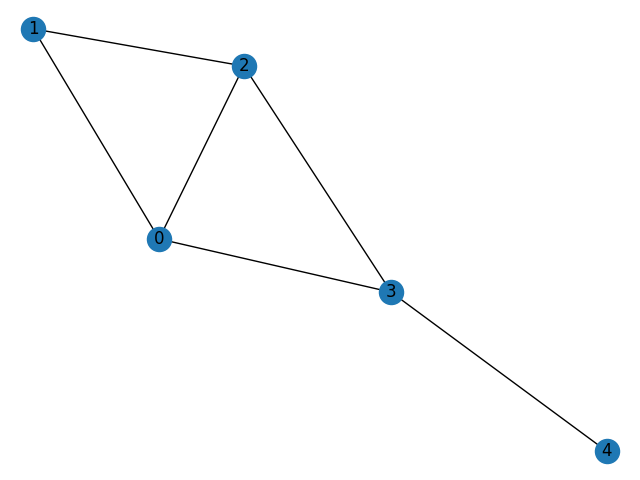
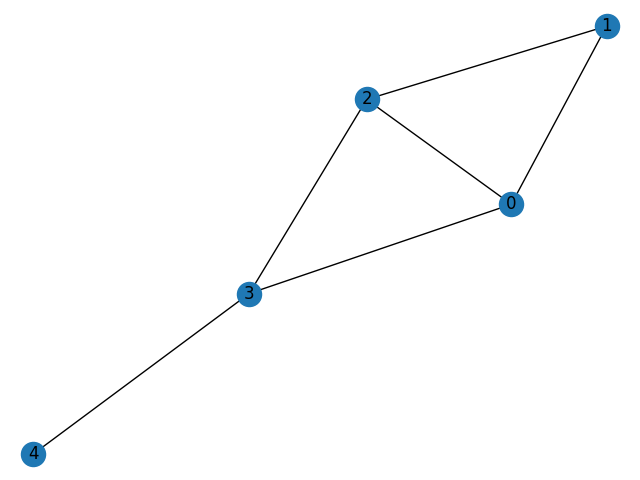
Complex triangle perfected and cleaned

diff --git a/Inner Graph Generator/componentcheck.py b/Inner Graph Generator/componentcheck.py
@@ -12,35 +12,9 @@ def cip_rule_filter(graph_list):
                 Less than 4 CIPs
     """
     filtered_graphs = []
-    a = 0
     for graph in graph_list:
-        print(f'reach {a}')
-        print(graph.edges())
-        a += 1
-        cip_check = True
-        outer_comps, inner_comps, single_component = component_break(graph)
-        # list, list, element
-        # print(outer_comps, inner_comps, single_component)
-        if not single_component:
-            # CIP Rule for Outer Components
-            for comp in outer_comps:
-                if num_cips(comp) > 2 and not complex_triangle_check(comp):
-                    cip_check = False
-                    print('FALSE')
-            # CIP Rule for Inner Components
-            for comp in inner_comps:
-                if num_cips(comp) > 0 and not complex_triangle_check(comp):
-                    cip_check = False
-                    print('FALSE')
-        else:
-            # CIP Rule for single_component Components
-            if num_cips(single_component) > 4 and \
-                    not complex_triangle_check(single_component):
-                cip_check = False
-                print('FALSE')
-        if cip_check:
+        if cip_rule_check(graph):
             filtered_graphs.append(graph)
-
     return filtered_graphs
 
 
@@ -52,20 +26,33 @@ def cip_rule_check(graph):
     CIP Rule = 2 CIP on outer biconnected components and no CIP on
     inner biconnected components
     """
+    a = 0
+    # print(f'reach {a}')
+    # print(f"graph-edges {graph.edges()}")
+    a += 1
     cip_check = True
     outer_comps, inner_comps, single_component = component_break(graph)
-    # CIP Rule for Outer Components
-    for comp in outer_comps:
-        if num_cips(comp) > 2:
+    # list, list, element
+    # print(outer_comps, inner_comps, single_component)
+    if not single_component:
+        # CIP Rule for Outer Components
+        for comp in outer_comps:
+            if num_cips(comp) > 2 :
+                cip_check = False
+                print(f"num cips ={num_cips}")
+                print('FALSE')
+        # CIP Rule for Inner Components
+        for comp in inner_comps:
+            if num_cips(comp) > 0 :
+                cip_check = False
+                print(f"num cips ={num_cips}")
+                print('FALSE')
+    else:
+        # CIP Rule for single_component Components
+        if num_cips(single_component) > 4:
             cip_check = False
-
-    # CIP Rule for Outer Components
-    for comp in inner_comps:
-        if num_cips(comp) > 0:
-            cip_check = False
-    # CIP Rule for single_component Components
-    if num_cips(single_component) > 4:
-        cip_check = False
+            print(f"num cips ={num_cips}")
+            print('FALSE')
     return cip_check
 
 
@@ -112,19 +99,21 @@ def complex_triangle_check(graph):
     for compedges in nx.biconnected_component_edges(graph):
         comp=nx.Graph()
         comp.add_edges_from(compedges)
-        
-        comp=comp.to_directed()
-
+        # print("hi")
+        # print(comp.edges)
+        H = comp.to_directed()
+        # H = G.copy()
         # Get all triangles
-        all_cycles = list(nx.simple_cycles(comp))
+        all_cycles = list(nx.simple_cycles(H))
         all_triangles = []
         for cycle in all_cycles:
             if len(cycle) == 3:
                 all_triangles.append(cycle)
 
         # Get edges on outer boundary
+        # print(f"all triangles {all_triangles}")
         outer_boundary = []
-        for edge in comp.edges:
+        for edge in H.edges:
             count = 0
             for triangle in all_triangles:
                 if edge[0] in triangle and edge[1] in triangle:
@@ -140,7 +129,14 @@ def complex_triangle_check(graph):
             if edge[1] not in outer_vertices:
                 outer_vertices.append(edge[1])
 
-        if len(outer_vertices) == 3:
-            if len(comp) != 3:
-               return False
+        # print(f"outer vertices {outer_vertices}")
+        if all_triangles:
+            if 2*len(comp)-5+3-len(outer_vertices)-len(all_triangles)/2:
+                # print("complex")
+                # print(2*len(comp)-5+3-len(outer_vertices)-len(all_triangles))
+                # print(2*len(comp))
+                # print(len(outer_vertices))
+                # print(len(all_triangles))
+                
+                return False
     return True

diff --git a/Inner Graph Generator/RFPchecker.py b/Inner Graph Generator/RFPchecker.py
@@ -7,27 +7,39 @@ from componentcheck import cip_rule_check
 import networkx as nx
 def RFPchecker(graph):
     check= True
+
     if not check_test_graph(graph):
         check = False
-        print("main check failed")
+        
     if not cip_rule_check(graph):
         check = False
         print("cip rule failed")
+    
     if not complex_triangle_check(graph):
         check = False
         print("contains complex triangle")
+    
     if check:
         print("RFP exists")
         plot_graphs(len(graph),[graph])
         # plot_graph([graph])
     else:
         print("RFP doesn't exist")
+        plot_graphs(len(graph),[graph])
 
 g=nx.Graph()
-# g.add_edges_from([(0, 1), (1, 2), (1, 3), (1, 4), (1, 5), (2, 3), (2, 5), (3, 4), (4, 5)])
-# g.add_edges_from([(0, 1), (1, 2),  (2, 3), (0,3),(1,3),(0,2)])
-g.add_edges_from([(0, 1), (1, 2),  (2, 3), (3,4),(1,3)])
+# g.add_edges_from([(0, 1), (1, 2), (1, 3), (1, 4), (1, 5), (2, 3), (2, 5), (3, 4), (4, 5)]) #wrapped vertex attached
+g.add_edges_from([(0, 1), (1, 2),  (2, 3), (0,3),(1,3),(0,2)]) #complex triangle
+# g.add_edges_from([(0, 1), (1, 2),  (2, 3), (3,4),(1,3)]) #cip rule
+# g.add_edges_from([(0, 1), (1, 2), (0,2),(3,4),(4,5),(5,3),(0,3),(0,4),(0,5),(2,4),(1,4),(2,5)]) #k4 subgraph
 
+# g.add_edges_from([(0, 1), (0, 9), (1, 2), (1, 3), (1, 9), (2, 3), (3, 4),
+    #  (3, 5), (3, 9), (4, 5), (5, 6), (5, 7), (5, 9), (6, 7), (7, 8), (7, 9), (8, 9)]) #6 cips
+
+# g.add_edges_from([(0, 1), (0, 2), (0, 3), (0, 4), (1, 2), (1, 4),
+#  (1, 5), (2, 3), (2, 5), (3, 4), (3, 5), (4, 5)])#complex without K4
+
+g.add_edges_from([(0, 1), (1, 2), (2,0)])
 
 RFPchecker(g)
 

diff --git a/Inner Graph Generator/plot_graphs2.py b/Inner Graph Generator/plot_graphs2.py
@@ -1,23 +1,25 @@
 import os
-import random as ra
 import matplotlib.pyplot as plt
 import networkx as nx
 def plot_graph(graph_list):
+    init_len= len(graph_list[0])
+    folder_path = f"./RFP_Graph_Plots/Len {init_len}"
     try:
         os.mkdirs("./RFP_Graph_Plots")
-        os.mkdirs("./RFP_Graph_Plots/Len {}".format(init_len))
+        os.mkdirs(folderpath,mode=0o777, exist_ok=False)
+        file = open("output.txt","a")
     except:
         pass
-    graph_no = 4
+    graph_no = 1
     for graph in graph_list:
         plt.figure(graph_no)
-        nx.draw(graph,labels=None, font_size=12, font_color='k',\
-            font_family='sans-serif', font_weight='normal', alpha=1.0, bbox=None, ax=None)
-        plt.savefig("./graph.png")
-        plt.show()
+        nx.draw(graph,labels=None)
+        plt.savefig(f'{folder_path}/edgelen_{graph.size()}_num{graph_no}.png')
+        # plt.show()
         graph_no += 1
+        file.writelines(graph.edges(),"\n")
+        plt.clf()
 
 g=nx.Graph()
 g.add_edges_from([(0, 1), (0, 2), (0, 3), (1, 2), (2, 3), (3, 4)])
-plot_graphs([g])
-        
+plot_graph([g])

diff --git a/Inner Graph Generator/plot_graphs.py b/Inner Graph Generator/plot_graphs.py
@@ -1,6 +1,8 @@
 import os
 import matplotlib.pyplot as plt
 import networkx as nx
+import warnings
+warnings.simplefilter("ignore")
 # from generate import generation_next
 
 
@@ -13,11 +15,12 @@ def plot_graphs(init_len, graph_list):
         plt.figure(graph_no)
         nx.draw_planar(graph, labels=None, font_size=12, font_color='k', font_family='sans-serif', font_weight='normal', alpha=1.0, bbox=None, ax=None)
         # Inner Graph IG_<Initial Vertices>_<Graph_Size>_<Graph No.>.png
+        plt.savefig(f'{folder_path}/graph_{init_len}_{graph.size()}_{graph_no}.png')
         plt.show()
-        # plt.savefig(f'{folder_path}/IG_{init_len}_{graph.size()}_{graph_no}.png')
+        
         graph_no += 1
         plt.clf()
 
 
-g=nx.path_graph(5)
-plot_graphs(len(g.nodes),[g])
+# g=nx.path_graph(5)
+# plot_graphs(len(g.nodes),[g])

diff --git a/plotter.py b/plotter.py
@@ -1,15 +1,15 @@
 import networkx as nx
 import matplotlib.pyplot as plt
 g =nx.Graph()
-g.add_edges_from(  
-[(0, 1), (0, 2), (0, 3), (1, 2), (2, 3), (3, 4), (4, 5), (4, 4), (4, 6), (5, 5), (5, 6), (6, 7), (6, 9), (7, 8), (8, 9)] )
+g.add_edges_from(  [(0, 1), (0, 2), (0, 3), (0, 4), (1, 2), (1, 4),
+ (1, 5), (2, 3), (2, 5), (3, 4), (3, 5), (4, 5)])
 l=[1,2,3,4]
 # print(g.has_edge(-1,-2))
 x=[1,2,3]
 for i in range(2,-1,-1):
     print(x[i])
 # print(l[4])
-# nx.draw(g, pos=None,labels=None, font_size=12, font_color='k', font_family='sans-serif', font_weight='normal', alpha=1.0, bbox=None, ax=None)
-nx.draw_planar(g,labels=None, font_size=12, font_color='k', font_family='sans-serif', font_weight='normal', alpha=1.0, bbox=None, ax=None)
+# nx.draw(g, labels=None)
+nx.draw_planar(g,labels=None)
 plt.savefig("fig.png")
 plt.show()

diff --git a/Inner Graph Generator/generate.py b/Inner Graph Generator/generate.py
@@ -42,10 +42,12 @@ def filter_bridge_case(graph_list):
 def check_test_graph(given_graph):
     # Planarity Check
     if not nx.check_planarity(given_graph)[0]:
+        print("planarity failed")
         return 0
     # Subgraph is K4
     if GraphMatcher(given_graph,
                     nx.complete_graph(4)).subgraph_is_isomorphic():
+        print("K4 subgraph")
         return 0
     # Some other random checks!
     return 1

diff --git a/Inner Graph Generator/plotter.py b/Inner Graph Generator/plotter.py
@@ -1,7 +1,7 @@
 import networkx as nx
 import matplotlib.pyplot as plt
 g=nx.Graph()
-g.add_edges_from([(0, 1), (0, 2), (0, 3), (0, 4), (0, 5), (1, 2), (1, 4), (2, 3), (3, 4), (4, 5)])
+g.add_edges_from([(0, 1), (0, 9), (1, 2), (1, 3), (1, 9), (2, 3), (3, 4), (3, 5), (3, 9), (4, 5), (5, 6), (5, 7), (5, 9), (6, 7), (7, 8), (7, 9), (8, 9)])
 nx.draw_planar(g,labels=None)
 plt.show()
 print(g.edges)

diff --git a/Inner Graph Generator/NESW.py b/Inner Graph Generator/NESW.py
@@ -118,5 +118,5 @@ def num_cips(G):
 g=nx.Graph()
 g.add_edges_from([(0, 1), (0, 2), (0, 3), (0, 4), (1, 2), (1, 4), (1, 5),
  (2, 3), (2, 5), (3, 4), (3, 5), (4, 5)])
-print(num_cips(g))
+# print(num_cips(g))
 
